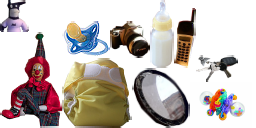
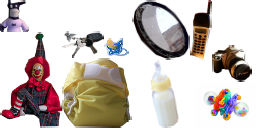
Disabled debug mode, fixed images, positions.

diff --git a/GTFTSTG/src/com/aquasheep/GTFTSTG/GTFTSTG.java b/GTFTSTG/src/com/aquasheep/GTFTSTG/GTFTSTG.java
@@ -18,7 +18,7 @@ import com.badlogic.gdx.audio.Sound;
 public class GTFTSTG extends Game {
 	
 	public static final String LOG = "GTFTSTG Log";
-	public final boolean DEBUG = true;
+	public final boolean DEBUG = false;
 	public Item[] items;
 	private Baby baby;
 	private float screenWidth = 1, screenHeight = 1;
@@ -35,16 +35,16 @@ public class GTFTSTG extends Game {
 			//Perhaps possible by having a set of multipliers and applying them to screen size whenever setSize is called
 			//Another possibility is to bind items to background as one texture and access relative coords
 		//Must substract from screenHeight to convert topleft to bottomleft and then subtract image height
-		items[0] = new Bottle(this,(int)(0.2965*screenWidth),(int)(0.3359*screenHeight));
+		items[0] = new Bottle(this,(int)(0.3065*screenWidth),(int)(0.3159*screenHeight));
 		items[1] = new Clown(this,(int)(0.5098*screenWidth),(int)(0.3311*screenHeight));
-		items[2] = new ActionFigure(this,(int)(0.5499*screenWidth),(int)(0.1669*screenHeight));
+		items[2] = new ActionFigure(this,(int)(0.5499*screenWidth),(int)(0.1619*screenHeight));
 		items[3] = new Mirror(this,(int)(0.9256*screenWidth),(int)(0.3514*screenHeight));
 		items[4] = new Diaper(this,(int)(0.9256*screenWidth),(int)(0.2700*screenHeight));
 		items[5] = new Phone(this,(int)(0.3425*screenWidth),(int)(0.3689*screenHeight));
-		items[6] = new Camera(this,(int)(0.6115*screenWidth),(int)(0.6421*screenHeight));
-		items[7] = new Keys(this,(int)(0.8190*screenWidth),(int)(0.0345*screenHeight));
+		items[6] = new Camera(this,(int)(0.5915*screenWidth),(int)(0.6421*screenHeight));
+		items[7] = new Keys(this,(int)(0.7960*screenWidth),(int)(0.0095*screenHeight));
 		items[8] = new Rattle(this,(int)(0.3425*screenWidth),(int)(0.0176*screenHeight));
-		items[9] = new Pacifier(this,(int)(0.3503*screenWidth),(int)(0.2900*screenHeight));
+		items[9] = new Pacifier(this,(int)(0.3303*screenWidth),(int)(0.2700*screenHeight));
 	}
 
 	public Baby getBaby() {

diff --git a/GTFTSTG/src/com/aquasheep/GTFTSTG/Items/Item.java b/GTFTSTG/src/com/aquasheep/GTFTSTG/Items/Item.java
@@ -42,7 +42,7 @@ public abstract class Item extends Actor {
 		this.setPosition(pos.x, pos.y);
 		sound = Gdx.audio.newSound(Gdx.files.internal("sounds/"+name+".ogg"));
 		this.soundLength = soundLength;
-		sleepChance = (float)Math.random()/10;
+		sleepChance = (float)Math.random()/10+.01f;
 		//TODO make collision rectangle (pos) based on image size	
 	}
 	

diff --git a/GTFTSTG/src/com/aquasheep/GTFTSTG/Items/Keys.java b/GTFTSTG/src/com/aquasheep/GTFTSTG/Items/Keys.java
@@ -31,7 +31,7 @@ public class Keys extends Item {
 				}
 				else {
 					sound2.play();
-					soundLength = 2.6f;
+					soundLength = 1f;
 				}
 				return true;
 			}
